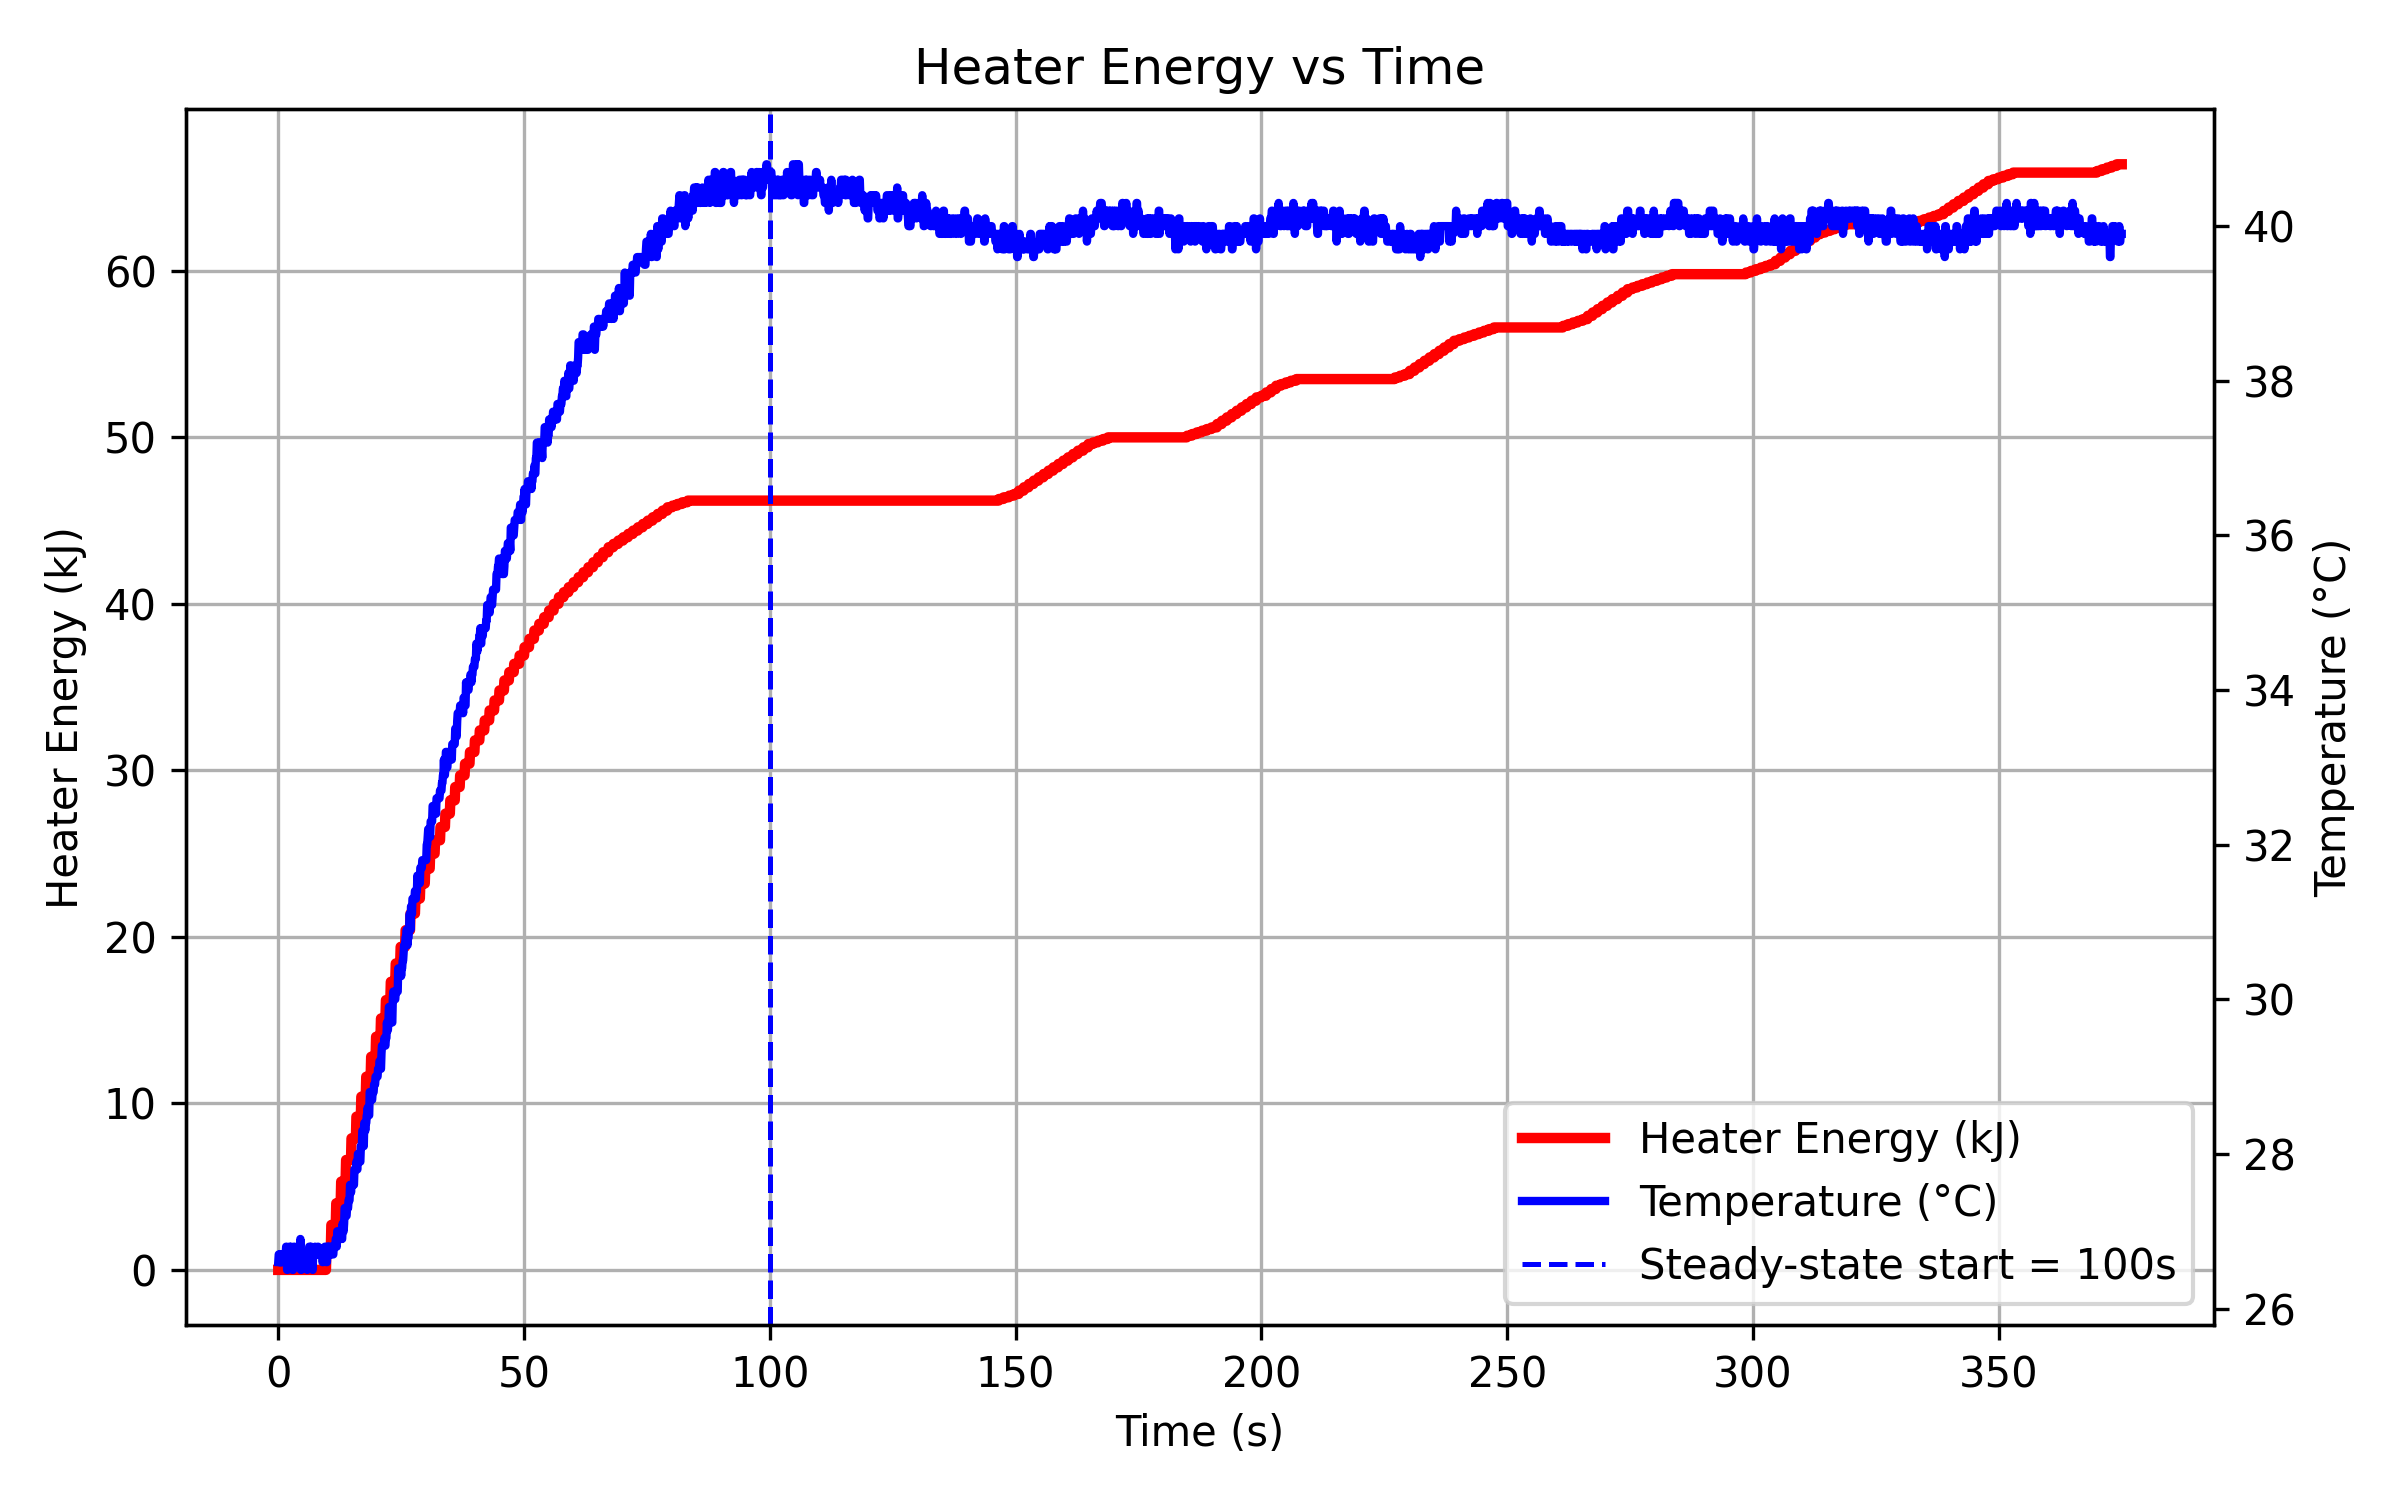
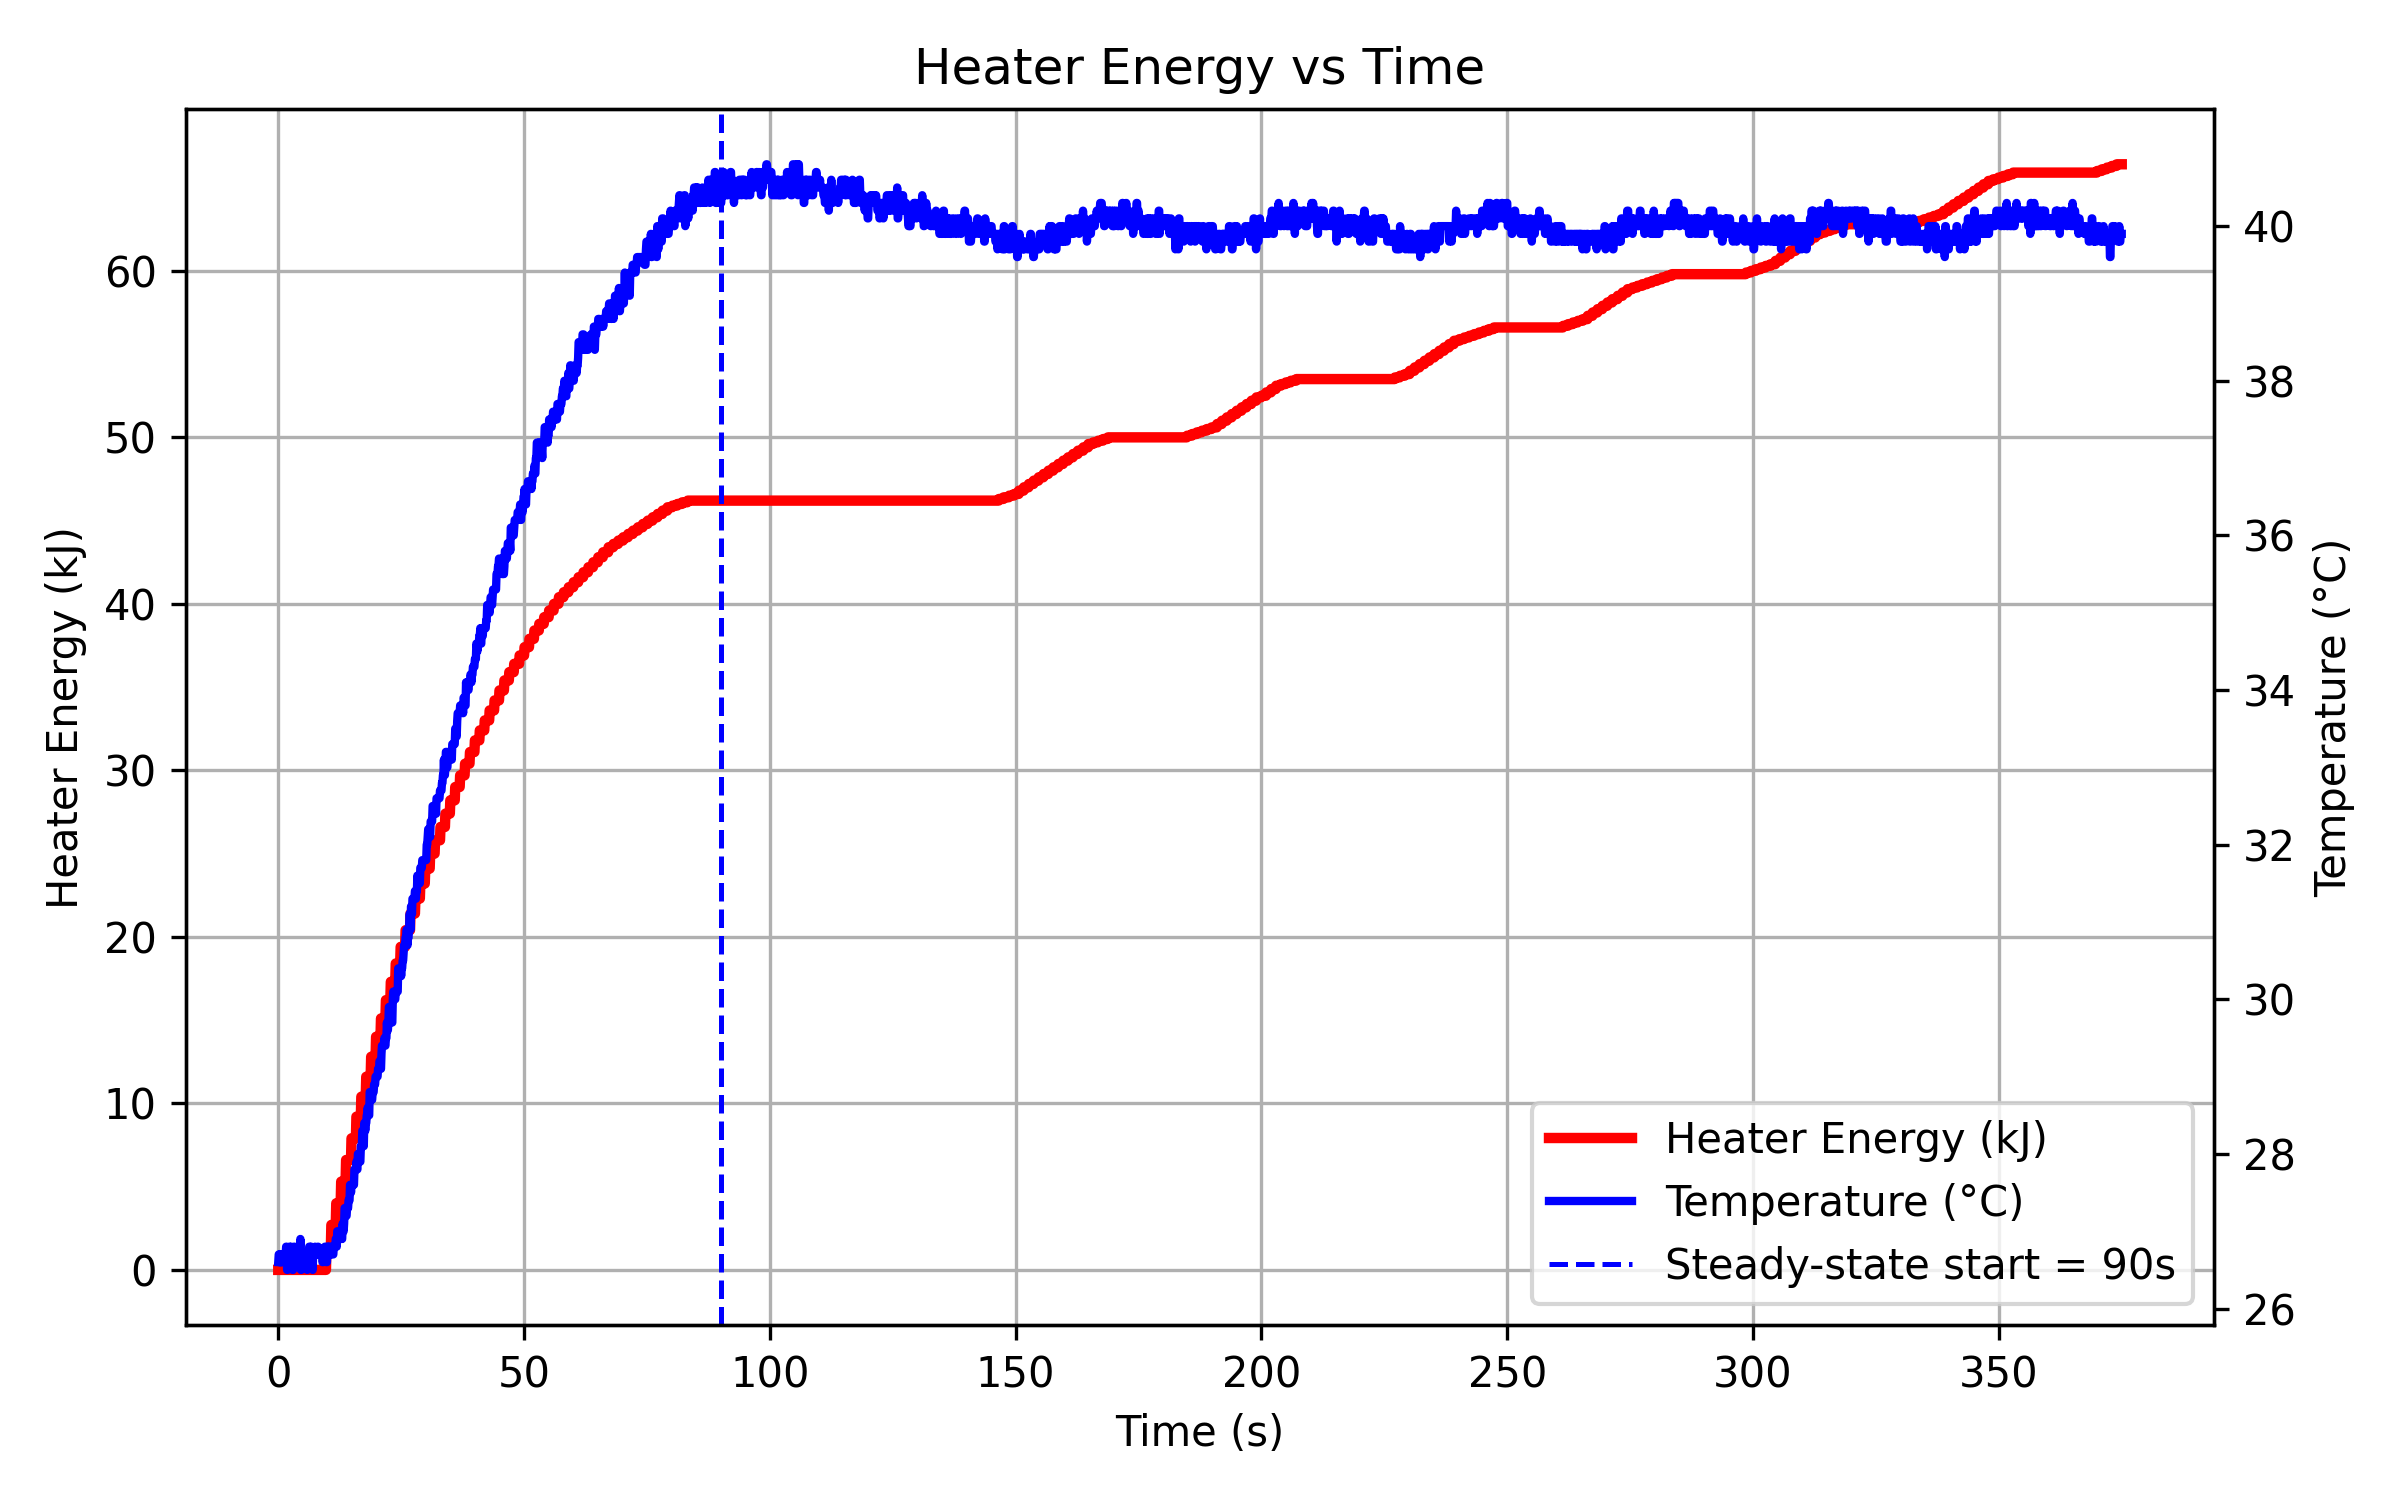
add: part 2 code

Changed region(s): [[0.625, 0.736, 0.9062, 0.8587]]

diff --git a/Lab2/analysis.py b/Lab2/analysis.py
@@ -1,0 +1,222 @@
+import numpy as np
+import matplotlib.pyplot as plt
+
+def load_experiment_data(filename: str) -> np.ndarray:
+    with open(filename, 'r') as f:
+        lines = f.readlines()
+
+    data_lines = []
+    for line in lines:
+        if line.strip() and line[0].isdigit(): #look for valid number
+            data_lines.append(line)
+
+    data = np.loadtxt(data_lines)
+    return data
+
+def analyze_mass_flow(filename: str, start_time: int = None, end_time: int = None) -> None:
+    # Load data
+    data = load_experiment_data(f'data/{filename}')
+
+    P_ATM_KPA = 99.3
+    time = data[:, 0] # Time (s)
+    T1 = data[:, 1] # Temperature (deg C)
+    P1 = data[:, 5] # P1 (psi)
+    mass_flow = data[:, 7] # Mass Flowrate (g/min)
+
+    # Convert flow rate to g/s for integration
+    mass_flow_gs = mass_flow / 60.0
+
+    # Integrate to find total mass added (uses trapezoidal rule)
+    m_added = np.trapz(mass_flow_gs, time)
+
+    # Start and end indices for flow, convert to kPa and K
+    start_idx = np.argmin(np.abs(time - start_time))
+    end_idx = np.argmin(np.abs(time - end_time))
+    P1_i = np.mean(P1[start_idx]) * 6.89476 + P_ATM_KPA
+    P2_f = np.mean(P1[end_idx]) * 6.89476 + P_ATM_KPA
+    T1_i = np.mean(T1[start_idx]) + 273.15
+    T2_f = np.mean(T1[end_idx]) + 273.15
+
+    # Compute using formula
+    ratio = (P2_f * T1_i) / (P1_i * T2_f)
+    m_left_tank = m_added * (1 + 1/(ratio - 1))
+
+    # Plot mass flow rate vs. time
+    plt.figure(figsize=(8,5))
+    plt.plot(time, mass_flow, '-', color='red', alpha=0.7)
+    plt.title("Mass Flow Rate vs. Time")
+    plt.xlabel("Time (s)")
+    plt.ylabel("Mass Flow Rate (g/min)")
+    plt.grid(True)
+    plt.savefig(f'figures/{filename}.png')
+    plt.show()
+
+    print(f"--- Results for {filename} ---")
+    print(f"m_added = {m_added:.2f} g")
+    print(f"P1 = {P1_i:.2f} kPa, T1 = {T1_i:.2f} K")
+    print(f"P2 = {P2_f:.2f} kPa, T2 = {T2_f:.2f} K")
+    print(f"m_left_tank = {m_left_tank:.2f} g\n")
+
+def part1() -> None:
+    analyze_mass_flow('Lab 2 - Part 1a', 20, 53)
+    analyze_mass_flow('Lab 2 - Part 1b', 26, 90)
+    analyze_mass_flow('Lab 2 - Part 1c', 10, 50)
+    analyze_mass_flow('Lab 2 - Part 1d', 12, 70)
+    """
+    Part 1 Results:
+
+    --- Results for Lab 2 - Part 1a ---
+    m_added = 22.80 g
+    P1 = 127.57 kPa, T1 = 299.35 K
+    P2 = 370.95 kPa, T2 = 304.25 K
+    m_left_tank = 35.05 g
+
+    --- Results for Lab 2 - Part 1b ---
+    m_added = 46.94 g
+    P1 = 119.29 kPa, T1 = 304.25 K
+    P2 = 635.71 kPa, T2 = 309.45 K
+    m_left_tank = 58.01 g
+
+    --- Results for Lab 2 - Part 1c ---
+    m_added = 24.09 g
+    P1 = 104.13 kPa, T1 = 307.95 K
+    P2 = 375.09 kPa, T2 = 312.45 K
+    m_left_tank = 33.54 g
+
+    --- Results for Lab 2 - Part 1d ---
+    m_added = 40.58 g
+    P1 = 119.29 kPa, T1 = 309.45 K
+    P2 = 580.55 kPa, T2 = 312.75 K
+    m_left_tank = 51.22 g
+    """
+
+def analyze_heater_energy(filename, steady_start=None, mass_left_tank=None) -> None:
+    with open(f"data/{filename}", "r") as f:
+        lines = f.readlines()
+
+    data_lines = [line for line in lines if line.strip() and line[0].isdigit()] #check for valid number
+    data = np.loadtxt(data_lines)
+
+    time = data[:, 0] # Time (s)
+    temp = data[:, 1] # Temperature (°C)
+    heater_energy = data[:, 8] # Heater Energy (kJ)
+
+    # steady start time
+    steady_index = np.argmin(np.abs(time - steady_start))
+
+    # Q's
+    Q_added = heater_energy[steady_index]
+    Q_final = heater_energy[-1]
+    Q_lost = (Q_final - Q_added)
+
+    T_ambient = 24.3 # deg C
+    k_acrylic = 0.19 # W/m*K
+    l = 0.28575 # height of tank (m)
+    r1 = 0.09208 # inner radius (m)
+    r2 = 0.10610 # outer radius (m)
+
+    # Compute heat transfer rate
+    delta_T = np.mean(temp[steady_index:]) - T_ambient
+    Qdot_wall = 2 * np.pi * k_acrylic * l * delta_T / np.log(r2 / r1)
+    dt = time[-1] - time[steady_index]
+    Q_wall = Qdot_wall * dt / 1000
+
+    Q_plate = Q_lost - Q_wall
+
+    fig, ax1 = plt.subplots(figsize=(8, 5))
+
+    # Left y-axis (Heater Energy)
+    l1, = ax1.plot(time, heater_energy, color='red', linewidth=2.5, label='Heater Energy (kJ)')
+    steady_line = ax1.axvline(steady_start, color='blue', linestyle='--', linewidth=1.2, label=f'Steady-state start = {steady_start}s')
+    ax1.set_xlabel("Time (s)")
+    ax1.set_ylabel("Heater Energy (kJ)", color='black')
+    ax1.tick_params(axis='y', labelcolor='black')
+    ax1.grid(True)
+    ax1.legend()
+
+    # Right y-axis (Temperature)
+    ax2 = ax1.twinx()
+    l2, = ax2.plot(time, temp, color='blue', linewidth=2, label='Temperature (°C)')
+    ax2.set_ylabel("Temperature (°C)", color='black')
+    ax2.tick_params(axis='y', labelcolor='black')
+
+    ax1.legend(handles=[l1, l2, steady_line], loc='best')
+    plt.title(f"Heater Energy vs Time")
+    fig.tight_layout()
+    plt.savefig(f"figures/{filename}.png", dpi=300)
+    plt.show()
+
+    # compute specific heat capacity
+    if mass_left_tank is not None:
+        c_v = Q_lost / (mass_left_tank * 1e-3 * (np.mean(temp[steady_index:])+273.15 - T_ambient+273.15)) # kJ/kgK
+
+    # results
+    print(f"--- Results for {filename} ---")
+    print(f"Steady-state start: {steady_start:.2f} s")
+    print(f"T_ambient = {T_ambient:.2f} °C")
+    print(f"ΔT across wall = {delta_T:.2f} °C")
+    print(f"Q_dot_wall = {Qdot_wall:.2f} W")
+    print(f"Q_wall = {Q_wall:.2f} kJ")
+    print(f"Q_added = {Q_added:.2f} kJ")
+    print(f"Q_final = {Q_final:.2f} kJ")
+    print(f"Q_lost = Q_final - Q_added = {Q_lost:.2f} kJ")
+    print(f"Q_plate = Q_lost - Q_wall = {Q_plate:.2f} kJ")
+    print(f"c_v: {c_v:.2f} kJ/kgK\n")
+
+def part2() -> None:
+    analyze_heater_energy("Lab 2 - Part 2a", 90, 35.03)
+    analyze_heater_energy("Lab 2 - Part 2b", 75, 58.01)
+    analyze_heater_energy("Lab 2 - Part 2c", 120, 33.54)
+    analyze_heater_energy("Lab 2 - Part 2d", 105, 51.22)
+    '''
+    --- Results for Lab 2 - Part 2a ---
+    Steady-state start: 90.00 s
+    T_ambient = 24.30 °C
+    ΔT across wall = 15.75 °C
+    Q_dot_wall = 37.90 W
+    Q_wall = 10.80 kJ
+    Q_added = 46.20 kJ
+    Q_final = 66.40 kJ
+    Q_lost = Q_final - Q_added = 20.20 kJ
+    Q_plate = Q_lost - Q_wall = 9.40 kJ
+    c_v: 1.03 kJ/kgK
+
+    --- Results for Lab 2 - Part 2b ---
+    Steady-state start: 75.00 s
+    T_ambient = 24.30 °C
+    ΔT across wall = 15.70 °C
+    Q_dot_wall = 37.79 W
+    Q_wall = 10.72 kJ
+    Q_added = 32.40 kJ
+    Q_final = 58.60 kJ
+    Q_lost = Q_final - Q_added = 26.20 kJ
+    Q_plate = Q_lost - Q_wall = 15.48 kJ
+    c_v: 0.80 kJ/kgK
+
+    --- Results for Lab 2 - Part 2c ---
+    Steady-state start: 120.00 s
+    T_ambient = 24.30 °C
+    ΔT across wall = 35.46 °C
+    Q_dot_wall = 85.34 W
+    Q_wall = 20.87 kJ
+    Q_added = 92.90 kJ
+    Q_final = 138.50 kJ
+    Q_lost = Q_final - Q_added = 45.60 kJ
+    Q_plate = Q_lost - Q_wall = 24.73 kJ
+    c_v: 2.34 kJ/kgK
+
+    --- Results for Lab 2 - Part 2d ---
+    Steady-state start: 105.00 s
+    T_ambient = 24.30 °C
+    ΔT across wall = 35.13 °C
+    Q_dot_wall = 84.56 W
+    Q_wall = 24.39 kJ
+    Q_added = 87.30 kJ
+    Q_final = 151.10 kJ
+    Q_lost = Q_final - Q_added = 63.80 kJ
+    Q_plate = Q_lost - Q_wall = 39.41 kJ
+    c_v: 2.14 kJ/kgK
+    '''
+
+if __name__ == "__main__": 
+    part2()
